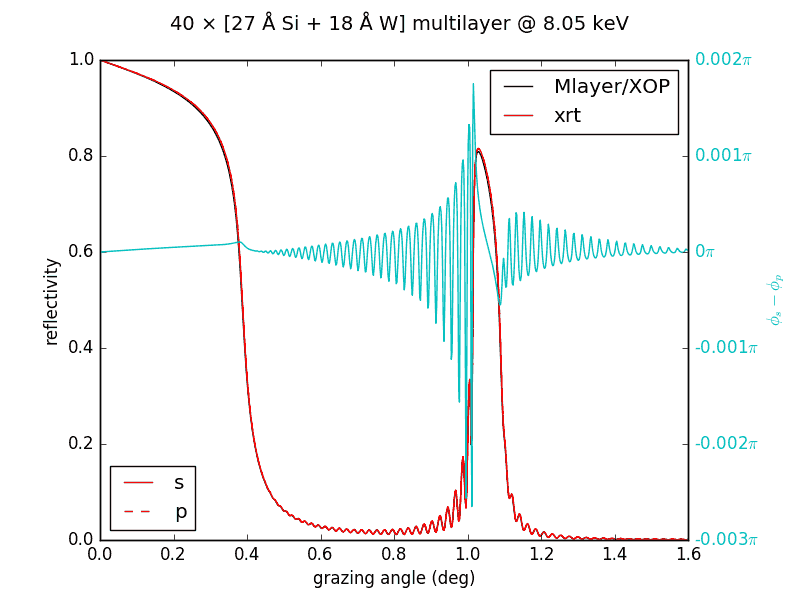
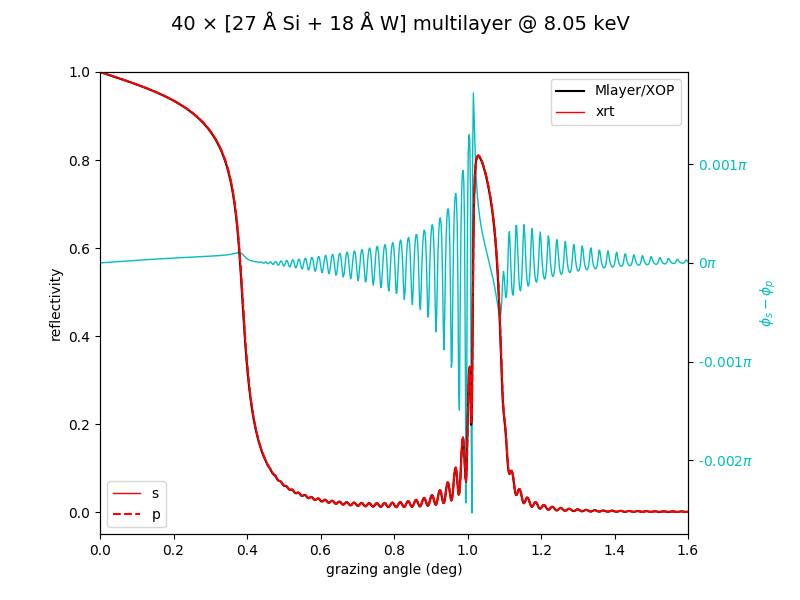
updated docs with multilayer and coating examples

diff --git a/tests/raycing/test_materials.py b/tests/raycing/test_materials.py
@@ -184,8 +184,8 @@ therefore is given without comparison.
 
 .. _multilayer_reflectivity:
 
-Slab and multilayer reflectivity
-~~~~~~~~~~~~~~~~~~~~~~~~~~~~~~~~
+Slab, multilayer and coating reflectivity
+~~~~~~~~~~~~~~~~~~~~~~~~~~~~~~~~~~~~~~~~~
 
 The curves are basically equal. The small amplitude differences are due
 to slight differences in tabulated values of the atomic scattering factors.
@@ -195,6 +195,10 @@ comparison.
 .. imagezoom:: _images/SlabReflW.*
 .. imagezoom:: _images/MultilayerSiW.*
 .. imagezoom:: _images/MultilayerSiW-graded.*
+.. imagezoom:: _images/MultilayerSiWCXRO_id0.*
+.. imagezoom:: _images/MultilayerSiWCXRO_id6.*
+.. imagezoom:: _images/MirrorRefl30nmRhOnSi_4mrad_RMSroughness2nm.*
+.. imagezoom:: _images/MirrorRefl20nmDiamondOnQuartz_0.2deg_RMSroughness1nm.*
    :loc: upper-right-corner
 
 Transmittivity of materials
@@ -221,6 +225,7 @@ import math
 #import cmath
 import numpy as np
 import matplotlib as mpl
+mpl.rcParams['backend'] = 'Qt5Agg'
 import matplotlib.pyplot as plt
 
 import os, sys; sys.path.append(os.path.join('..', '..'))  # analysis:ignore
@@ -243,7 +248,7 @@ def compare_rocking_curves(hkl, t=None, geom='Bragg reflected', factDW=1.,
         gammah = sum(i*j for i, j in zip(n, sh))
         hns0 = sum(i*j for i, j in zip(hn, s0))
 
-        fig = plt.figure()
+        fig = plt.figure(figsize=(8, 6), dpi=100)
         fig.subplots_adjust(right=0.88)
         ax = fig.add_subplot(111)
 
@@ -384,7 +389,7 @@ def compare_rocking_curves_bent(hkl, t=None, geom='Laue reflected', factDW=1.,
         gammah = sum(i*j for i, j in zip(n, sh))
         hns0 = sum(i*j for i, j in zip(hn, s0))
 
-        fig = plt.figure()
+        fig = plt.figure(figsize=(8, 6), dpi=100)
         fig.subplots_adjust(right=0.88)
         ax = fig.add_subplot(111)
 
@@ -550,7 +555,7 @@ def compare_Bragg_Laue(hkl, beamPath, factDW=1.):
         hns0 = sum(i*j for i, j in zip(hn, s0))
         laueS, laueP = siLaueCrystal.get_amplitude(E, gamma0, gammah, hns0)
 
-        fig = plt.figure()
+        fig = plt.figure(figsize=(8, 6), dpi=100)
         ax = fig.add_subplot(111)
 
 # phases:
@@ -625,7 +630,7 @@ def compare_Bragg_Laue(hkl, beamPath, factDW=1.):
 def compare_reflectivity():
     """A comparison subroutine used in the module test suit."""
     def for_one_material(stripe, refs, refp, theta, reprAngle):
-        fig = plt.figure()
+        fig = plt.figure(figsize=(8, 6), dpi=100)
         fig.subplots_adjust(right=0.86)
         ax = fig.add_subplot(111)
         ax.set_xlabel('energy (eV)')
@@ -682,25 +687,25 @@ def compare_reflectivity():
 def compare_reflectivity_coated():
     """A comparison subroutine used in the module test suit."""
     def for_one_material(stripe, strOnly, refs, refp, theta, reprAngle):
-        fig = plt.figure()
+        fig = plt.figure(figsize=(8, 6), dpi=100)
         fig.subplots_adjust(right=0.86)
         ax = fig.add_subplot(111)
-        ax.set_xlabel('energy (eV)')
+        ax.set_xlabel('energy (keV)')
         ax.set_ylabel('reflectivity')
         ax.set_xlim(100, 4e4)
         ax.set_ylim(1e-7, 2)
         fig.suptitle(stripe.name + ' ' + reprAngle, fontsize=16)
         x, R2s = np.loadtxt(refs, unpack=True, skiprows=2, usecols=(0, 1))
-        p1, = ax.semilogy(x, R2s, '-k', label='s CXRO')
+        p1, = ax.semilogy(x*1e-3, R2s, '-k', label='s CXRO')
         x, R2s = np.loadtxt(refp, unpack=True, skiprows=2, usecols=(0, 1))
-        p2, = ax.semilogy(x, R2s, '--k', label='p CXRO')
+        p2, = ax.semilogy(x*1e-3, R2s, '--k', label='p CXRO')
         refl = stripe.get_amplitude(E, math.sin(theta))
         rs, rp = refl[0], refl[1]
         rs0, rp0 = strOnly.get_amplitude(E, math.sin(theta))[0:2]
-        p3, = ax.semilogy(E, abs(rs)**2, '-r')
-        p4, = ax.semilogy(E, abs(rp)**2, '--r')
-        p5, = ax.semilogy(E, abs(rs0)**2, '-m')
-        p6, = ax.semilogy(E, abs(rp0)**2, '--c')
+        p3, = ax.semilogy(E*1e-3, abs(rs)**2, '-r')
+        p4, = ax.semilogy(E*1e-3, abs(rp)**2, '--r')
+        p5, = ax.semilogy(E*1e-3, abs(rs0)**2, '-m')
+        p6, = ax.semilogy(E*1e-3, abs(rp0)**2, '--c')
         l1 = ax.legend([p1, p2], ['s', 'p'], loc=3)
         ax.legend([p1, p3, p5], ['CXRO', 'xrt', 'bulk coating'], loc=1)
         ax.add_artist(l1)
@@ -708,11 +713,14 @@ def compare_reflectivity_coated():
         ax2 = ax.twinx()
         ax2.set_ylabel(r'$\phi_s - \phi_p$', color='c')
         phi = np.unwrap(np.angle(rs * rp.conj()))
-        p9, = ax2.plot(E, phi, 'c', lw=2, yunits=math.pi, zorder=0)
+        p9, = ax2.plot(E*1e-3, phi, 'c', lw=2, yunits=math.pi, zorder=0)
         formatter = mpl.ticker.FormatStrFormatter('%g' + r'$ \pi$')
         ax2.yaxis.set_major_formatter(formatter)
         for tl in ax2.get_yticklabels():
             tl.set_color('c')
+
+        ax2.set_zorder(-1)
+        ax.patch.set_visible(False)  # hide the 'canvas'
 
         fname = 'MirrorRefl' + stripe.name + "".join(reprAngle.split())
         fig.savefig(fname + '.png')
@@ -724,12 +732,12 @@ def compare_reflectivity_coated():
 #    mB4C = rm.Material(('B', 'C'), quantities=(4, 1), rho=2.52)
     mRh = rm.Material('Rh', rho=12.41, kind='mirror')
     mC = rm.Material('C', rho=3.5, kind='mirror')
-    cRhSi = rm.CoatedMirror(coating=mRh, cThickness=300,
-                            substrate=mSi, surfaceRoughness=20,
-                            substRoughness=20, name='30 nm Rh on Si')
-    cCSiO2 = rm.CoatedMirror(coating=mC, cThickness=200,
-                             substrate=mSiO2, surfaceRoughness=10,
-                             substRoughness=10, name='20 nm Diamond on Quartz')
+    cRhSi = rm.Coated(coating=mRh, cThickness=300,
+                      substrate=mSi, surfaceRoughness=20,
+                      substRoughness=20, name='30 nm Rh on Si')
+    cCSiO2 = rm.Coated(coating=mC, cThickness=200,
+                       substrate=mSiO2, surfaceRoughness=10,
+                       substRoughness=10, name='20 nm Diamond on Quartz')
     for_one_material(cRhSi, mRh,
                      os.path.join(dataDir, "RhSi_s_rough2.CXRO.gz"),
                      os.path.join(dataDir, "RhSi_p_rough2.CXRO.gz"),
@@ -745,7 +753,7 @@ def compare_reflectivity_coated():
 def compare_reflectivity_slab():
     """A comparison subroutine used in the module test suit."""
     def for_one_material(stripe, refs, refp, E, reprEnergy):
-        fig = plt.figure()
+        fig = plt.figure(figsize=(8, 6), dpi=100)
         fig.subplots_adjust(right=0.86)
         ax = fig.add_subplot(111)
         ax.set_xlabel('grazing angle (deg)')
@@ -774,6 +782,10 @@ def compare_reflectivity_slab():
         ax2.yaxis.set_major_formatter(formatter)
         for tl in ax2.get_yticklabels():
             tl.set_color('c')
+
+        ax2.set_zorder(-1)
+        ax.patch.set_visible(False)  # hide the 'canvas'
+
         fname = 'SlabRefl' + stripe.name + ' ' + reprEnergy
         fig.savefig(fname + '.png')
 
@@ -804,7 +816,7 @@ def compare_reflectivity_multilayer():
         matCL = None
 
     def for_one_material(ml, refs, E, label, flabel=''):
-        fig = plt.figure()
+        fig = plt.figure(figsize=(8, 6), dpi=100)
         fig.subplots_adjust(right=0.86)
         ax = fig.add_subplot(111)
         ax.set_xlabel('grazing angle (deg)')
@@ -832,6 +844,9 @@ def compare_reflectivity_multilayer():
         for tl in ax2.get_yticklabels():
             tl.set_color('c')
         ax2.set_xlim(theta[0], theta[-1])
+
+        ax2.set_zorder(-1)
+        ax.patch.set_visible(False)  # hide the 'canvas'
 
         fname = 'Multilayer' + ml.tLayer.name + ml.bLayer.name
         fig.savefig(fname + flabel)
@@ -874,7 +889,7 @@ def compare_reflectivity_multilayer_interdiffusion():
         matCL = None
 
     def for_one_material(ml, refs, E, label, flabel=''):
-        fig = plt.figure()
+        fig = plt.figure(figsize=(8, 6), dpi=100)
         fig.subplots_adjust(right=0.86)
         ax = fig.add_subplot(111)
         ax.set_xlabel('grazing angle (deg)')
@@ -886,17 +901,6 @@ def compare_reflectivity_multilayer_interdiffusion():
         refl = ml.get_amplitude(E, np.sin(np.deg2rad(theta)), ucl=matCL)
         rs, rp = refl[0], refl[1]
 
-# phases:
-        ax2 = ax.twinx()
-        ax2.set_ylabel(r'$\phi_s - \phi_p$', color='c')
-        phi = np.unwrap(np.angle(rs * rp.conj()))
-        p9, = ax2.plot(theta, phi, 'c', lw=1, yunits=math.pi, zorder=0,)
-        ax2.set_ylim(-0.001, 0.001)
-        formatter = mpl.ticker.FormatStrFormatter('%g' + r'$ \pi$')
-        ax2.yaxis.set_major_formatter(formatter)
-        for tl in ax2.get_yticklabels():
-            tl.set_color('c')
-        ax2.set_xlim(theta[0], theta[-1])
 # amplitudes:
         p1, = ax.plot(x, R2s, '-k', label='s CXRO')
         p3, = ax.plot(theta, abs(rs)**2, '-r', lw=1)
@@ -906,6 +910,21 @@ def compare_reflectivity_multilayer_interdiffusion():
         ax.add_artist(l1)
         ylim = ax.get_ylim()
         ax.set_ylim([ylim[0], 1])
+
+# phases:
+        ax2 = ax.twinx()
+        ax2.set_ylabel(r'$\phi_s - \phi_p$', color='c')
+        phi = np.unwrap(np.angle(rs * rp.conj()))
+        p9, = ax2.plot(theta, phi, 'c', lw=1, yunits=math.pi)
+        ax2.set_ylim(-0.001, 0.001)
+        formatter = mpl.ticker.FormatStrFormatter('%g' + r'$ \pi$')
+        ax2.yaxis.set_major_formatter(formatter)
+        for tl in ax2.get_yticklabels():
+            tl.set_color('c')
+        ax2.set_xlim(theta[0], theta[-1])
+
+        ax2.set_zorder(-1)
+        ax.patch.set_visible(False)  # hide the 'canvas'
 
         fname = 'Multilayer' + ml.tLayer.name + ml.bLayer.name
         fig.savefig(fname + flabel)
@@ -929,7 +948,7 @@ def compare_reflectivity_multilayer_interdiffusion():
 def compare_dTheta():
     """A comparison subroutine used in the module test suit."""
     def for_one_material(mat, ref1, title):
-        fig = plt.figure()
+        fig = plt.figure(figsize=(8, 6), dpi=100)
         ax = fig.add_subplot(111)
         ax.set_xlabel(r'$\theta_{B}-\alpha$, deg')
         ax.set_ylabel(r'$\delta\theta$, deg')
@@ -964,7 +983,7 @@ def compare_absorption_coeff():
     def for_one_material(m):
         rf = os.path.join(dataDir, "{0}_absCoeff.xcrosssec.gz".format(m.name))
         title = u'Absorption in {0}'.format(mat.name)
-        fig = plt.figure()
+        fig = plt.figure(figsize=(8, 6), dpi=100)
         ax = fig.add_subplot(111)
         ax.set_xlabel('energy (eV)')
         ax.set_ylabel(r'$\mu_0$ (cm$^{-1}$)')
@@ -1004,7 +1023,7 @@ def compare_absorption_coeff():
 def compare_transmittivity():
     """A comparison subroutine used in the module test suit."""
     def for_one_material(mat, thickness, ref1, title, sname):
-        fig = plt.figure()
+        fig = plt.figure(figsize=(8, 6), dpi=100)
         ax = fig.add_subplot(111)
         ax.set_xlabel('energy (eV)')
         ax.set_ylabel('transmittivity')
@@ -1075,7 +1094,7 @@ def run_tests():
 #(part of XOP):
 #    compare_reflectivity()
 
-    compare_reflectivity_coated()
+#    compare_reflectivity_coated()
 
 #Compare the calculated reflectivities of W slab with those by Mlayer
 #(part of XOP):
@@ -1084,7 +1103,7 @@ def run_tests():
 #Compare the calculated reflectivities of W slab with those by Mlayer
 #(part of XOP):
 #    compare_reflectivity_multilayer()
-#    compare_reflectivity_multilayer_interdiffusion()
+    compare_reflectivity_multilayer_interdiffusion()
 #    compare_dTheta()
 
 #Compare the calculated absorption coefficient with that by XCrossSec

diff --git a/xrt/backends/raycing/materials.py b/xrt/backends/raycing/materials.py
@@ -17,6 +17,9 @@ reflectivity, transmittivity, refractive index, absorption coefficient etc.
 
 .. autoclass:: Multilayer()
    :members: __init__, get_amplitude, get_dtheta_symmetric_Bragg
+.. autoclass:: Coated()
+   :members: __init__
+
 .. autoclass:: Crystal(Material)
    :members: __init__, get_Darwin_width, get_amplitude,
              get_dtheta_symmetric_Bragg, get_dtheta, get_dtheta_regular
@@ -37,7 +40,7 @@ reflectivity, transmittivity, refractive index, absorption coefficient etc.
 __author__ = "Konstantin Klementiev, Roman Chernikov"
 __date__ = "16 Mar 2017"
 __all__ = ('Material', 'EmptyMaterial', 'Multilayer', 'GradedMultilayer',
-           'CoatedMirror', 'Crystal', 'CrystalFcc',
+           'Coated', 'Crystal', 'CrystalFcc',
            'CrystalDiamond', 'CrystalSi', 'CrystalFromCell',
            'Powder', 'CrystalHarmonics')
 import collections
@@ -45,7 +48,7 @@ __allSectioned__ = collections.OrderedDict([
     ('Material', None),
     ('Crystals', ('CrystalSi', 'CrystalDiamond', 'CrystalFcc',
                   'CrystalFromCell')),  # don't include 'Crystal'
-    ('Layered', ('CoatedMirror', 'Multilayer', 'GradedMultilayer')),
+    ('Layered', ('Coated', 'Multilayer', 'GradedMultilayer')),
     ('Advanced', ('Powder', 'CrystalHarmonics', 'EmptyMaterial'))
     ])
 import sys
@@ -699,7 +702,7 @@ class Multilayer(object):
         the reflectivity at each interface is attenuated by a factor
         of :math:`exp(-2k_{j,z}k_{j-1,z}\sigma^{2}_{j,j-1})`,
         where :math:`k_{j,z}` is longitudinal component of the wave vector
-        in j-th layer [Nevot-Croce].
+        in j-th layer [Nevot-Croce]_.
 
 
         The above formulas refer to *s* polarization. The *p* part differs at
@@ -799,17 +802,16 @@ class Multilayer(object):
 
 class GradedMultilayer(Multilayer):
     """
-    Derivative class from :class:`Mutilayer` with single reflective layer on
-    substrate.
+    Derivative class from :class:`Mutilayer` with graded layer thicknesses.
     """
 
     hiddenParams = ['substRoughness']
 
 
-class CoatedMirror(Multilayer):
+class Coated(Multilayer):
     """
-    Derivative class from :class:`Mutilayer` with single reflective layer on
-    substrate.
+    Derivative class from :class:`Mutilayer` with a single reflective layer on
+    a substrate.
     """
 
     hiddenParams = ['tLayer', 'tThickness', 'bLayer', 'bThickness', 'power',
@@ -819,8 +821,7 @@ class CoatedMirror(Multilayer):
     def __init__(self, *args, **kwargs):
         u"""
         *coating*, *substrate*: instance of :class:`Material`
-            Material of the mirror coating layer, and the substrate
-            material.
+            Material of the mirror coating layer, and the substrate material.
 
         *cThickness*: float
             The thicknesses of mirror coating in Å.
@@ -836,7 +837,7 @@ class CoatedMirror(Multilayer):
         coating = kwargs.pop('coating', None)
         cThickness = kwargs.pop('cThickness', 0)
         surfaceRoughness = kwargs.pop('surfaceRoughness', 0)
-        super(CoatedMirror, self).__init__(
+        super(Coated, self).__init__(
             bLayer=coating, bThickness=cThickness,
             idThickness=surfaceRoughness, nPairs=1, *args, **kwargs)
         self.kind = 'mirror'

diff --git a/examples/withRaycing/00_xRayCalculator/calc_coated_mirror.py b/examples/withRaycing/00_xRayCalculator/calc_coated_mirror.py
@@ -9,16 +9,15 @@ import xrt.backends.raycing.materials as rm
 
 substrate = rm.Material('Si', rho=2.33)
 coating = rm.Material('Rh', rho=12.41, kind='mirror')
-cMirror = rm.CoatedMirror(coating=coating, cThickness=300, 
-                          substrate=substrate, surfaceRoughness=30,
-                          substRoughness=30)
+cMirror = rm.Coated(coating=coating, cThickness=300, substrate=substrate,
+                    surfaceRoughness=30, substRoughness=30)
 
-#E = np.logspace(1 + np.log10(3), 4 + np.log10(5), 501)
+# E = np.logspace(1 + np.log10(3), 4 + np.log10(5), 501)
 E = np.linspace(100, 29999, 1001)
 theta = 4e-3
 rs, rp = cMirror.get_amplitude(E, np.sin(theta))[0:2]
 rs0, rp0 = coating.get_amplitude(E, np.sin(theta))[0:2]
-#plt.semilogx(E, abs(rs)**2, 'r', E, abs(rp)**2, 'b')
+# plt.semilogx(E, abs(rs)**2, 'r', E, abs(rp)**2, 'b')
 refs, refp = plt.plot(E, abs(rs)**2, 'r', E, abs(rp)**2, 'b--')
 refs0, refp0 = plt.plot(E, abs(rs0)**2, 'm', E, abs(rp0)**2, 'c--')
 plt.legend([refs, refp, refs0, refp0],
